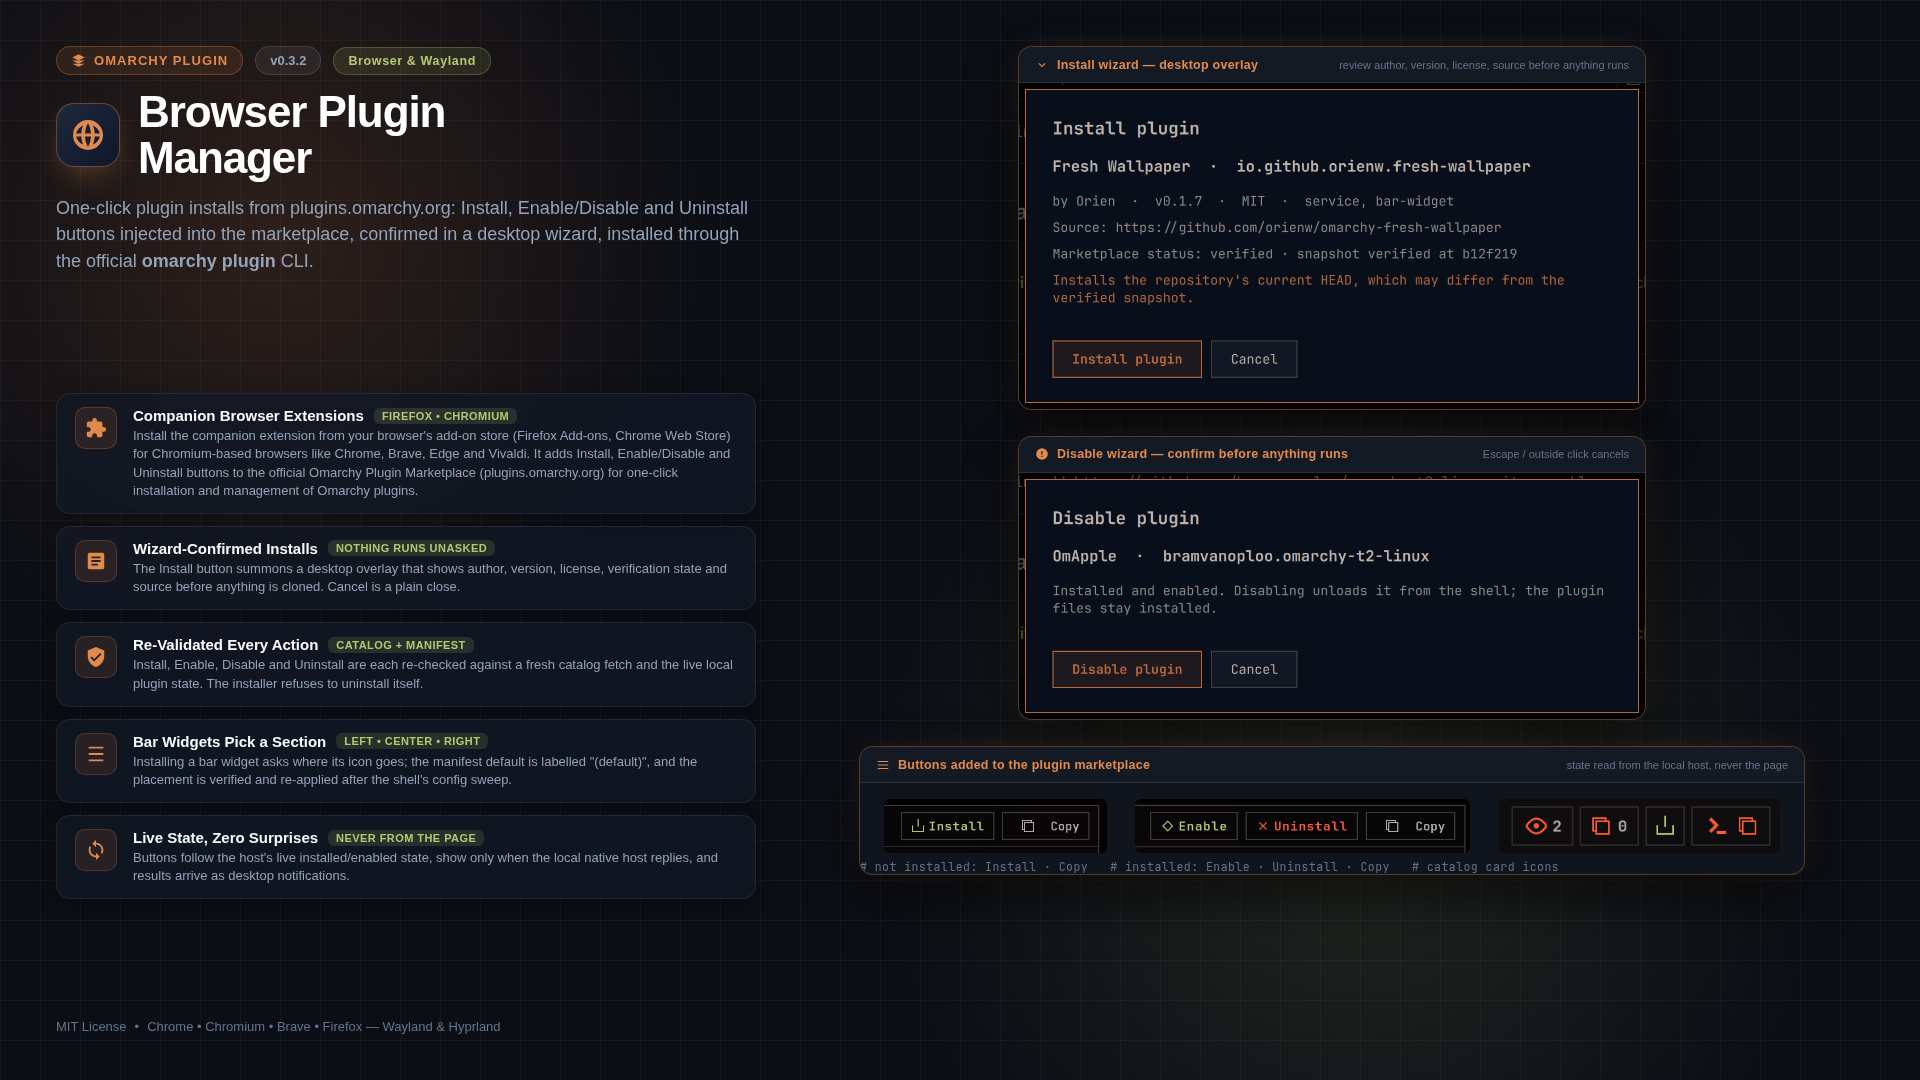
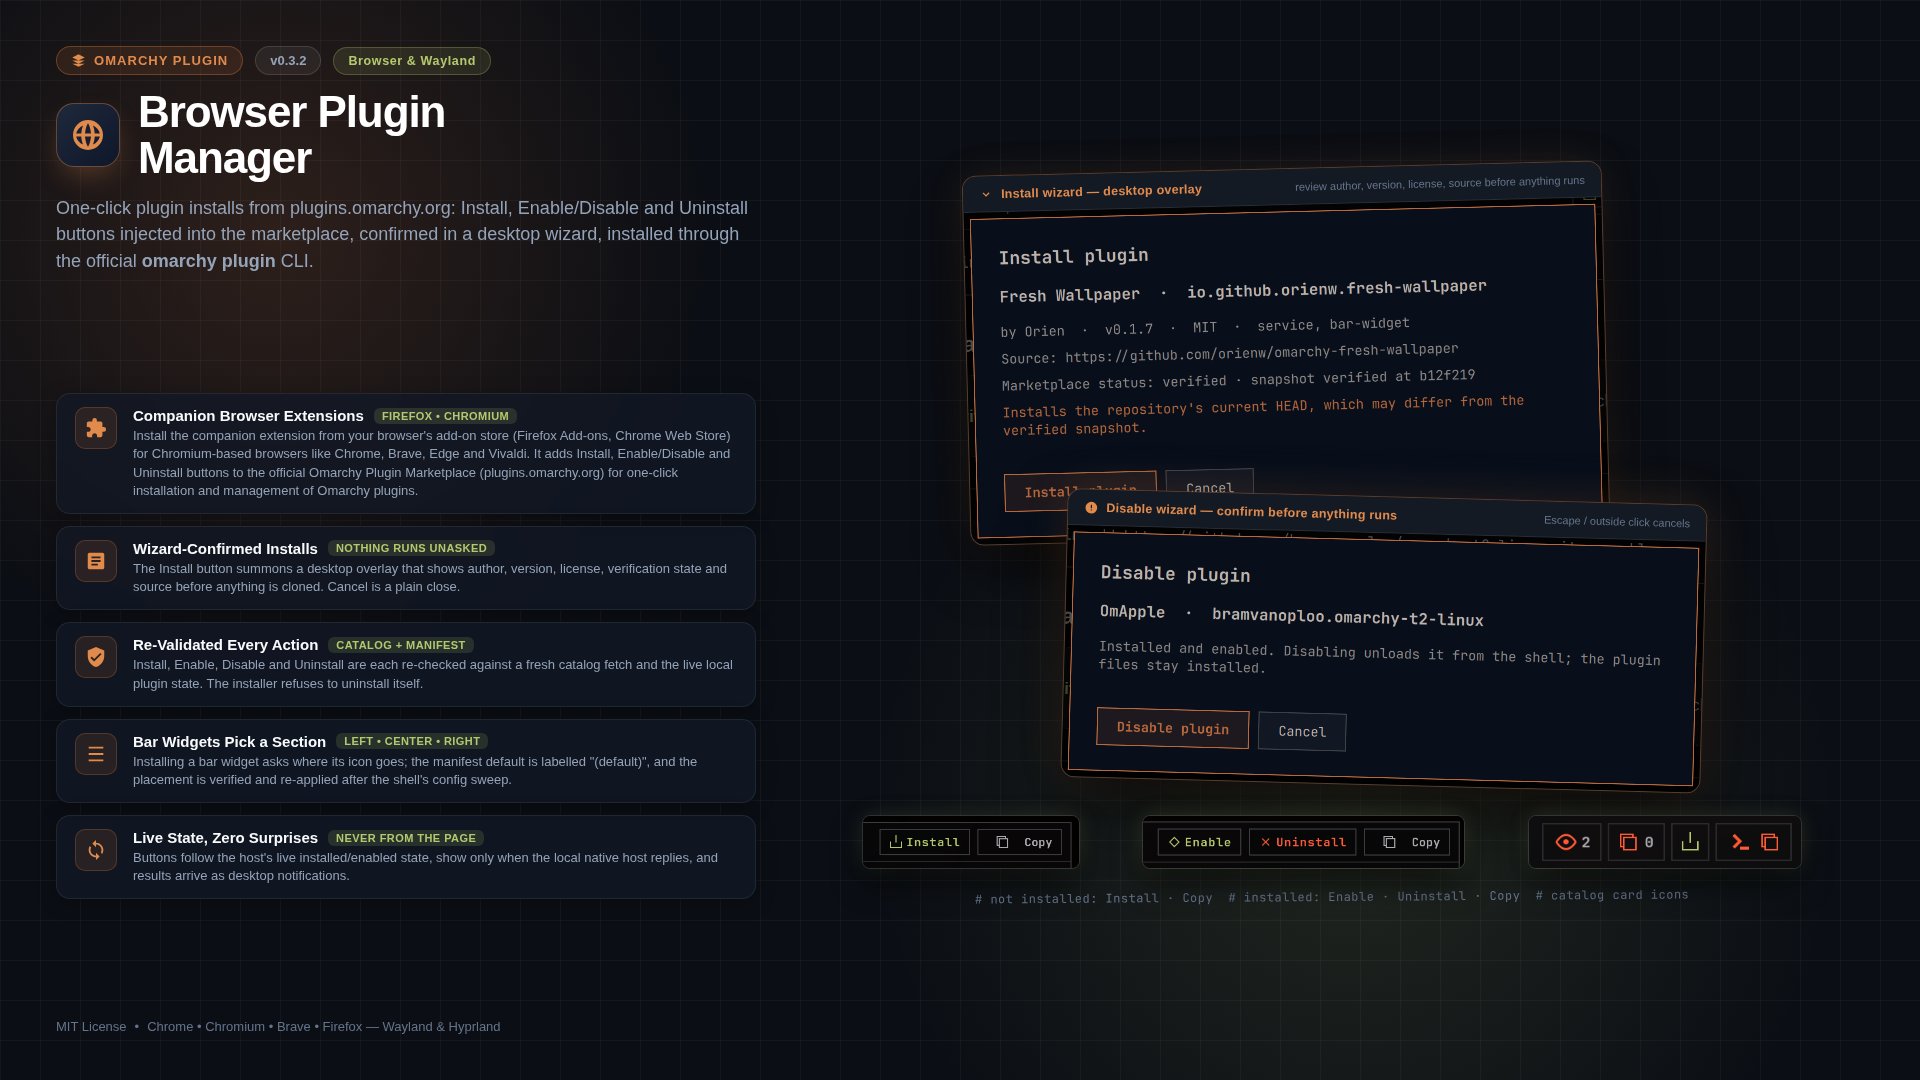
feat(preview): turn screenshot stack into centered collage
Fanned wizard cards with overlap, straight evenly-spaced strip row
below, vertically centered with equal top/bottom spacing. Lead
feature row clarifies extensions come from browser add-on stores.

Changed region(s): [[0.4375, 0.0306, 0.9375, 0.8556], [0.6875, 0.0611, 0.8438, 0.0917]]

diff --git a/preview/template.html b/preview/template.html
@@ -342,7 +342,7 @@
   </div>
 </div>
 
-<!-- Right Column: Visual Previews Stack -->
+<!-- Right Column: playful screenshot collage, vertically centered -->
 <style>
   .right-col {
     position: relative;
@@ -351,15 +351,16 @@
     height: 988px;
     display: flex;
     flex-direction: column;
-    gap: 26px;
+    justify-content: center;
+    align-items: center;
+    gap: 0;
+    padding-bottom: 8px;
   }
 
   .shot-card {
     border-radius: 14px;
     overflow: hidden;
     border: 1px solid rgba(224, 138, 76, 0.35);
-    box-shadow: 0 24px 60px -10px rgba(0, 0, 0, 0.75),
-                0 0 35px -5px rgba(224, 138, 76, 0.15);
     background: #0f141d;
   }
 
@@ -392,35 +393,63 @@
 
   .shot-card img { width: 100%; display: block; }
 
-  /* All screenshots share one scale (0.55) so they stay proportionally true
-     to each other: wizard cards 1142px wide -> 628, the marketplace button
-     strips keep their native 1:1 pixel size from the same display. */
-  .wizard-card { width: 628px; flex: none; align-self: center; }
-
-  .buttons-card { width: 946px; flex: none; align-self: center; }
-
-  .buttons-row {
-    padding: 16px 20px 6px;
-    display: flex;
-    gap: 28px;
-    justify-content: center;
-    align-items: center;
+  /* One shared scale (0.56): wizard cards 1142px wide -> 640, button strips
+     at 54px height, all proportionally true to each other. The collage is
+     fanned: cards lean apart, overlap, and the strips sit on top like
+     stickers. justify-content:center keeps top/bottom spacing equal. */
+  .wizard-card {
+    width: 640px;
+    flex: none;
+    box-shadow: 0 26px 60px -12px rgba(0, 0, 0, 0.8),
+                0 0 40px -6px rgba(224, 138, 76, 0.18);
   }
 
-  .buttons-row img { display: block; border-radius: 6px; height: 54px; width: auto; }
+  .wizard-install-card {
+    transform: rotate(-1.4deg) translateX(-46px);
+    z-index: 1;
+  }
 
-  .strip-caption {
+  .wizard-disable-card {
+    transform: rotate(1.5deg) translateX(52px);
+    margin-top: -42px;
+    z-index: 2;
+    box-shadow: 0 26px 70px -10px rgba(0, 0, 0, 0.85),
+                0 0 46px -4px rgba(224, 138, 76, 0.22);
+  }
+
+  .strip-cluster {
+    display: flex;
+    align-items: center;
+    justify-content: space-evenly;
+    width: 100%;
+    margin-top: 30px;
+    z-index: 3;
+  }
+
+  .strip-cluster img {
+    display: block;
+    height: 54px;
+    width: auto;
+    border-radius: 8px;
+    border: 1px solid rgba(255, 255, 255, 0.14);
+    box-shadow: 0 14px 34px -6px rgba(0, 0, 0, 0.8),
+                0 0 22px -4px rgba(180, 201, 111, 0.25);
+  }
+
+  .collage-caption {
+    margin-top: 20px;
     font-family: ui-monospace, "JetBrains Mono", Menlo, monospace;
-    font-size: 11.5px;
+    font-size: 12px;
     color: #64748b;
     letter-spacing: 0.04em;
+    text-align: center;
+    transform: rotate(-0.4deg);
   }
 </style>
 
 <div class="right-col">
 
-  <!-- Install wizard overlay -->
-  <div class="shot-card wizard-card">
+  <div class="shot-card wizard-card wizard-install-card">
     <div class="shot-topbar">
       <span class="shot-title">
         <svg viewBox="0 0 24 24" width="14" height="14" fill="currentColor">
@@ -433,8 +462,7 @@
     <img src="wizard_install.png" alt="Install wizard reviewing a plugin over the marketplace page">
   </div>
 
-  <!-- Disable wizard overlay, stacked under the install wizard -->
-  <div class="shot-card wizard-card">
+  <div class="shot-card wizard-card wizard-disable-card">
     <div class="shot-topbar">
       <span class="shot-title">
         <svg viewBox="0 0 24 24" width="14" height="14" fill="currentColor">
@@ -447,24 +475,13 @@
     <img src="wizard_disable.png" alt="Disable plugin wizard confirming before disabling a plugin">
   </div>
 
-  <!-- Buttons the extension injects into plugins.omarchy.org -->
-  <div class="shot-card buttons-card">
-    <div class="shot-topbar">
-      <span class="shot-title">
-        <svg viewBox="0 0 24 24" width="14" height="14" fill="currentColor">
-          <path d="M3 5h18v2H3V5zm0 6h18v2H3v-2zm0 6h18v2H3v-2z"/>
-        </svg>
-        Buttons added to the plugin marketplace
-      </span>
-      <span class="shot-hint">state read from the local host, never the page</span>
-    </div>
-    <div class="buttons-row">
-      <img src="buttons_install.png" alt="Install and Copy buttons on a plugin that is not installed">
-      <img src="buttons_disable.png" alt="Enable, Uninstall and Copy buttons on an installed plugin">
-      <img src="catalog_icons.png" alt="Catalog card icons: views, installs, download, terminal, copy">
-    </div>
-    <div class="strip-caption"># not installed: Install &middot; Copy &nbsp;&nbsp;# installed: Enable &middot; Uninstall &middot; Copy &nbsp;&nbsp;# catalog card icons</div>
+  <div class="strip-cluster">
+    <img class="b-install" src="buttons_install.png" alt="Install and Copy buttons on a plugin that is not installed">
+    <img class="b-disable" src="buttons_disable.png" alt="Enable, Uninstall and Copy buttons on an installed plugin">
+    <img class="b-catalog" src="catalog_icons.png" alt="Catalog card icons: views, installs, download, terminal, copy">
   </div>
+
+  <div class="collage-caption"># not installed: Install &middot; Copy&nbsp;&nbsp;# installed: Enable &middot; Uninstall &middot; Copy&nbsp;&nbsp;# catalog card icons</div>
 
 </div>
 
